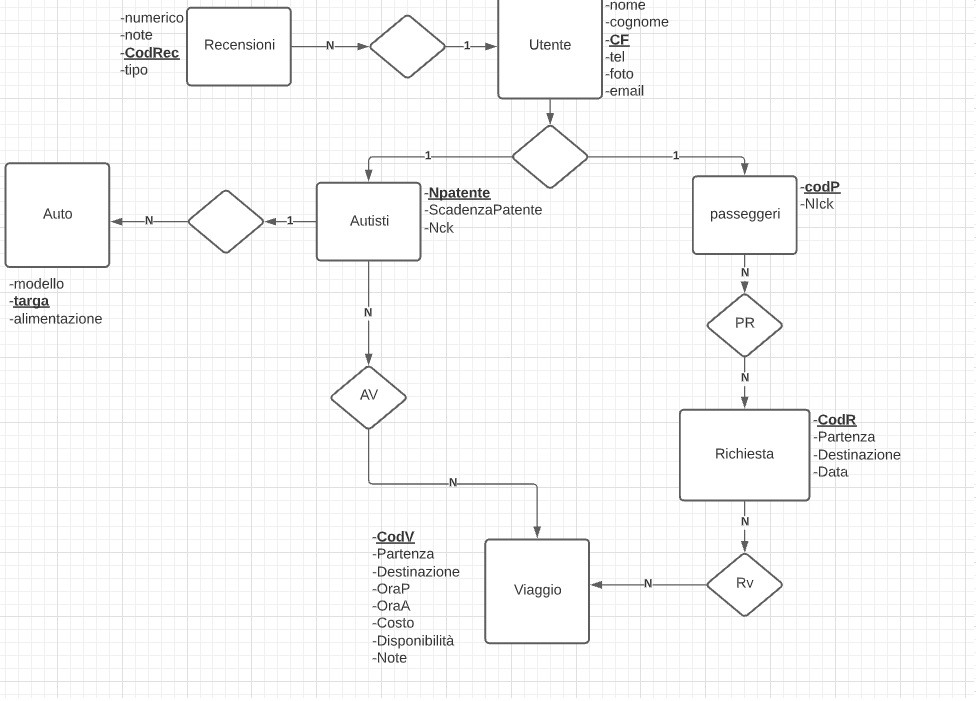
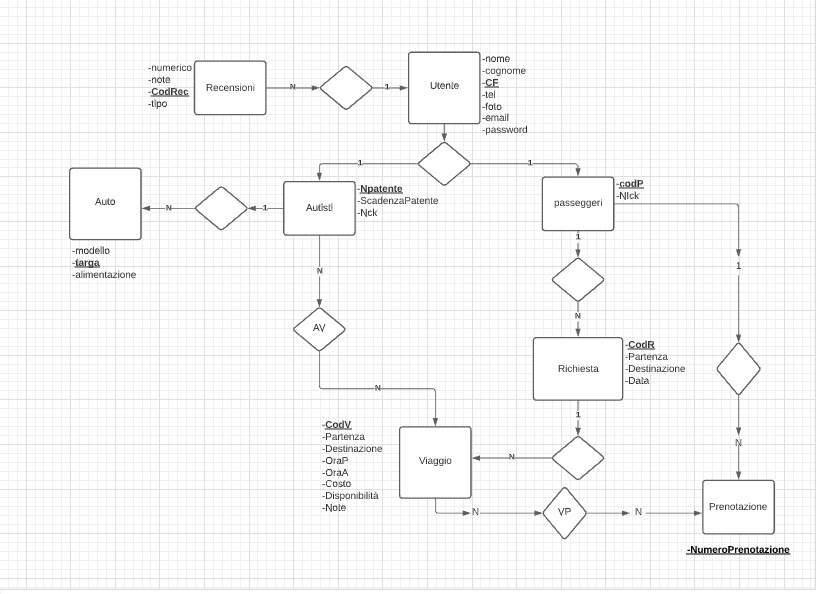
aggiunta richiesta prenotazione

diff --git a/Sito/cerca.php b/Sito/cerca.php
@@ -1,21 +1,35 @@
 <html>
 
 <head>
+    <?php
+    $mail = $_GET["mail"];
+    $mysqli = new mysqli('localhost', 'root', '', 'prova_esame_2017');
+    $result = $mysqli->query("SELECT * FROM utente WHERE email='$mail'");
+    while ($row = $result->fetch_assoc()) {
+        $CF = $row["CF"];
+    }
+    $result = $mysqli->query("SELECT MAX(CodP) AS CodP FROM passegieri");
+    while ($row = $result->fetch_assoc()) {
+        $codP = $row["CodP"] + 1;
+    }
+    $inserimento = "  INSERT INTO `passegieri`(`CodP`, `CF`) VALUES ('$codP','$CF')";
+    $mysqli->query($inserimento);
+    ?>
     <link rel='stylesheet' href='./css.css'>
 </head>
 
 <body>
-<div id="form">
-        <form action='cercaPartenza.php' method='POST'>
+    <div id="form">
+        <?php echo ("<form action='cercaPartenza.php?mail=$mail&CodP=$codP' method='POST'>") ?>
         Partenza:
-            <br> <input type='text' name='partenza'>
-            <input value="Cerca Viaggio" type='submit'>
+        <br> <input type='text' name='partenza' required='required'>
+        <input value="Cerca Viaggio" type='submit'>
         </form>
-        <form action='cercaDestinazione.php' method='POST'>
+        <?php echo ("<form action='cercaDestinazione.php?mail=$mail&CodP=$codP'' method='POST'>") ?>
         <br> Destinazione:
-            <br>
-            <input type='text' name='destinazione'>
-            <input value="Cerca Viaggio" type='submit'>
+        <br>
+        <input type='text' name='destinazione' required='required'>
+        <input value="Cerca Viaggio" type='submit'>
         </form>
     </div>
 

diff --git a/Sito/cercaDestinazione.php b/Sito/cercaDestinazione.php
@@ -2,7 +2,7 @@
 
 <head>
    <?php
-    
+      $mail=$_GET['mail'];
     $mysqli = new mysqli('localhost', 'root', '', 'prova_esame_2017');
     if ($mysqli->connect_error) {
         die('Errore di connessione (' . $mysqli->connect_errno . ')' . $mysqli->connect_error);
@@ -19,12 +19,17 @@
         echo ("Nessun Viaggio Trovato");
     }else
      while($row = $result->fetch_assoc()) {
-        echo ("Partenza: " . $row["partenza"]. " - ora: " . $row["oraP"]. " " ."<br>".
+         $CodV=$row["codV"];
+        echo ("<div>Partenza: " . $row["partenza"]. " - ora: " . $row["oraP"]. " " ."<br>".
         "Partenza: " . $row["destinazione"]. " - ora: " . $row["oraA"]."<br>".
         "Posti Disponibili:".$row["disponibilita"]."<br>".
         "Costo:".$row["Costo"]."<br>".
-        "Note:".$row["note"]."<br>"
+        "Note:".$row["note"]."<br></div>"
     );
+    echo("<form action='prenota.php?mail=$mail&Codv=$CodV'>
+    <input type='submit' value='Richiedi un posto'>
+    </form>
+    ");
       }
     ?>
 </body>

diff --git a/Sito/cercaPartenza.php b/Sito/cercaPartenza.php
@@ -2,7 +2,7 @@
 
 <head>
    <?php
-    
+    $mail=$_GET["mail"];
     $mysqli = new mysqli('localhost', 'root', '', 'prova_esame_2017');
     if ($mysqli->connect_error) {
         die('Errore di connessione (' . $mysqli->connect_errno . ')' . $mysqli->connect_error);
@@ -19,12 +19,17 @@
         echo ("Nessun Viaggio Trovato");
     }else
      while($row = $result->fetch_assoc()) {
+        $CodV=$row["codV"];
         echo ("<div>Partenza: " . $row["partenza"]. " - ora: " . $row["oraP"]. " " ."<br>".
         "Destinazione: " . $row["destinazione"]. " - ora: " . $row["oraA"]."<br>".
         "Posti Disponibili:".$row["disponibilita"]."<br>".
         "Costo:".$row["Costo"]."<br>".
-        "Note:".$row["note"]."<br></div><br>"
+        "Note:".$row["note"]."<br><br>"
     );
+    echo("<form action='prenota.php?mail=$mail&Codv=$CodV' method='POST'>
+    <input type='submit' value='Richiedi un posto'>
+    </form></div>
+    ");
       }
     ?>
 </body>

diff --git a/Sito/aggPasseggiero.php b/Sito/aggPasseggiero.php
@@ -1,0 +1,27 @@
+<?php
+$mail = $_GET["mail"];
+$mysqli = new mysqli('localhost', 'root', '', 'prova_esame_2017');
+
+$ricerca="SELECT passegieri.CodP
+FROM passegieri
+INNER JOIN utente 
+ON utente.CF= passegieri.CF
+WHERE utente.email='$mail'";
+$result = $mysqli->query($ricerca);
+if(is_bool($result)){
+    $mysqli = new mysqli('localhost', 'root', '', 'prova_esame_2017');
+    $result = $mysqli->query("SELECT * FROM utente WHERE email='$mail'");
+    while ($row = $result->fetch_assoc()) {
+        $CF = $row["CF"];
+    }
+    $result = $mysqli->query("SELECT MAX(CodP) AS CodP FROM passegieri");
+    while ($row = $result->fetch_assoc()) {
+        $codP = $row["CodP"] + 1;
+    }
+    $inserimento = "  INSERT INTO `passegieri`(`CodP`, `CF`) VALUES ('$codP','$CF')";
+    $mysqli->query($inserimento);
+
+    header("Location: cerca.php?mail=$mail");
+}
+header("Location: cerca.php?mail=$mail");
+    ?>

diff --git a/Sito/aggiuntaViaggio.php b/Sito/aggiuntaViaggio.php
@@ -25,6 +25,12 @@ if ($mysqli->connect_error) {
     while ($row = $result->fetch_assoc()) {
         $codV = $row["codV"] + 1;
     }
+    $result = $mysqli->query("SELECT CF FROM utente WHERE email=$mail");
+    while ($row = $result->fetch_assoc()) {
+        $CF = $row["CF"];
+    }
+    $inserimento = "INSERT INTO `autisti`(`Npatente`, `CF`) VALUES ('$Npatente','$CF')";
+    $mysqli->query($inserimento);
     $inserimento = "  INSERT INTO `viaggio`(codV,`partenza`, `destinazione`, `data`, `oraP`, `oraA`, `Costo`, `disponibilita`, `note`) VALUES ( $codV,'$partenza','$destinazione','$dataP','$oraP','$oraA','$costo',$disp,'$note')";
     $mysqli->query($inserimento);
     $inserimento = "INSERT INTO `av`(`Npatente`, `CodV`) VALUES ('$Npatente',$codV)";

diff --git a/Sito/prenota.php b/Sito/prenota.php
@@ -1,0 +1,16 @@
+<?php
+      $mail=$_GET['mail'];
+      $codV=$_GET['Codv'];
+      $codP=$_GET['CodP'];
+
+    $mysqli = new mysqli('localhost', 'root', '', 'prova_esame_2017');
+    if ($mysqli->connect_error) {
+        die('Errore di connessione (' . $mysqli->connect_errno . ')' . $mysqli->connect_error);
+    } else {
+        $result = $mysqli->query("SELECT MAX(CodR) AS CodR FROM richiesta");
+    while ($row = $result->fetch_assoc()) {
+        $codR = $row["CodR"] + 1;
+    }
+        $sql = "INSERT INTO `richiesta`(`CodR`, `CodV`,CodP) VALUES ($codR,$codV,'$codP')";
+        $result = $mysqli->query($sql);
+        }?>

diff --git a/Sito/home.php b/Sito/home.php
@@ -21,7 +21,8 @@
             <input value="Proponi Viaggio" type='submit'>
         </form>
         <p>oppure</p>
-        <?php    echo("<form action='cerca.php?mail=$mail'>");?>
+        <?php    echo("<form action='aggPasseggiero.php?mail=$mail' method='POST'>");?>
+
             <input value="Cerca Viaggio" type='submit'>
         </form>
     </div>
